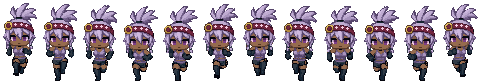
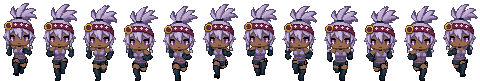
Corsa di fronte col viso della ferma: occhi più piccoli e il naso
Bru: la corsa verso il front aveva gli occhi troppo grandi e niente naso.
In tutti i 12 fotogrammi gli occhi sono ora quelli della ferma (iride di 4
pixel invece di 5, stesse ciglia e angolo in basso, coi colori della corsa),
sempre attaccati ai capelli ai lati, e c'è il naso della ferma: un pixel di
luce all'altezza del fondo degli occhi e uno d'ombra sotto.

Claude-Session: https://claude.ai/code/session_01AE7uzpDH1Lo1PHb29aXJxZ

diff --git a/strumenti/protagonisti/viso_corsa.py b/strumenti/protagonisti/viso_corsa.py
@@ -1,0 +1,96 @@
+"""La corsa di fronte col viso della ferma (Bru: "la corsa verso il front non ha la faccia proporzionata bene alla idle
+pose, le manca il naso e ha gli occhi troppo grandi"). Nella corsa l'iride era larga 5 pixel, con una colonna di
+bianco verso l'esterno; ora in tutti e 12 i fotogrammi gli occhi sono quelli della ferma: iride di 4 pixel (luce e
+riflesso verso l'esterno, pupilla e magenta verso il naso), le stesse ciglia e lo stesso angolo in basso. E c'e' il
+naso della ferma: un pixel di luce all'altezza del fondo degli occhi e uno d'ombra sotto.
+Gli occhi restano attaccati ai capelli ai lati, come nella ferma: il viso della corsa e' largo un pixel in piu', e
+quel pixel va fra gli occhi. Il viso sta un po' piu' su o piu' giu' (e di un pixel a destra) secondo il fotogramma:
+POSTO dice dove, rispetto al fotogramma 0. Colori della corsa (pelle e occhi), la luce del naso come nella ferma.
+Rifarlo non cambia niente (toglie gli occhi e rimette gli stessi).
+uso: viso_corsa.py davanti_corsa.png [anteprima.png]"""
+import sys
+
+import numpy as np
+from PIL import Image
+
+NERO = (6, 7, 15)
+# i colori della ferma (le lettere) tradotti in quelli della corsa
+COL = {'l': NERO,
+       'A': (187, 144, 170),     # luce dell'iride
+       'B': (78, 34, 90),        # pupilla
+       '1': (125, 62, 135),      # magenta
+       '0': (245, 205, 226),     # riflesso
+       'e': (150, 107, 78),      # pelle
+       'c': (128, 93, 75),       # pelle in ombra
+       'd': (105, 75, 64),       # pelle scura
+       '2': (166, 125, 106)}     # la luce del naso (nella ferma 173,135,111 sulla pelle 156,116,82)
+# gli occhi della ferma (davanti_ferma.png, righe 30-35): il sinistro da x 9, il destro da x 21
+SINISTRO = ['llll.',
+            'lllll',
+            'lAABB',
+            'lAABB',
+            'd0011',
+            '.c011']
+DESTRO = ['.lllll',
+          'llllll',
+          '.BBAAl',
+          '.BBAAl',
+          '.1100d',
+          '.110c.']
+NASO = ['2',
+        'c']
+# nel fotogramma 0 della corsa: le ciglia cominciano alla riga 35, il contorno dell'occhio sinistro e' a x 10, quello
+# del destro a x 28 (nella ferma 9 e 26); il naso a x 16, riga 40 (nella ferma x 15, riga 35)
+SX, DX, NX, RIGA = 10, 23, 16, 35
+# dove sta il viso negli altri fotogrammi (dx, dy), trovato confrontando occhi e bocca col fotogramma 0
+POSTO = [(0, 0), (0, 1), (0, 2), (0, 4), (0, 4), (0, 2), (0, 1), (0, 2), (1, 3), (1, 4), (1, 4), (0, 1)]
+# cosa si toglie dei vecchi occhi (diventa pelle): nelle ciglia il nero, nell'iride anche i colori degli occhi e i
+# chiari usati come bianco; i capelli scuri e le ombre della pelle ai lati restano
+OCCHI = {NERO, (78, 34, 90), (125, 62, 135), (187, 144, 170), (245, 205, 226),
+         (191, 172, 209), (206, 185, 223), (168, 148, 189)}
+VECCHI = [(RIGA, RIGA + 6, 10, 16), (RIGA, RIGA + 6, 22, 29)]     # righe e colonne dei vecchi occhi
+
+
+def disegna(f, righe, x0, y0):
+    for j, r in enumerate(righe):
+        for i, ch in enumerate(r):
+            if ch != '.':
+                f[y0 + j, x0 + i, :3] = COL[ch]
+                f[y0 + j, x0 + i, 3] = 255
+
+
+a = np.asarray(Image.open(sys.argv[1]).convert('RGBA')).copy()
+prima = a.copy()
+n = a.shape[1] // 40
+assert n == len(POSTO)
+for k in range(n):
+    f = a[:, k * 40:(k + 1) * 40]
+    dx, dy = POSTO[k]
+    for y0, y1, x0, x1 in VECCHI:
+        for y in range(y0 + dy, y1 + dy):
+            for x in range(x0 + dx, x1 + dx):
+                c = tuple(int(v) for v in f[y, x, :3])
+                if f[y, x, 3] and (c == NERO or (y - dy >= RIGA + 2 and c in OCCHI)):
+                    f[y, x, :3] = COL['e']
+    disegna(f, SINISTRO, SX + dx, RIGA + dy)
+    disegna(f, DESTRO, DX + dx, RIGA + dy)
+    disegna(f, NASO, NX + dx, RIGA + 5 + dy)
+Image.fromarray(a, 'RGBA').save(sys.argv[1])
+print('cambiati', int(np.any(a != prima, axis=-1).sum()), 'pixel in', n, 'fotogrammi')
+
+if len(sys.argv) > 2:
+    # anteprima: le teste prima (sopra) e dopo (sotto), x6, con la ferma di fronte in testa a ogni riga
+    import os
+    ferma = np.asarray(Image.open(os.path.join(os.path.dirname(sys.argv[1]), 'davanti_ferma.png')).convert('RGBA'))
+    z, h = 6, 30
+
+    def testa(img, y0):
+        t = Image.new('RGBA', (40, h), (60, 96, 62, 255))
+        t.alpha_composite(Image.fromarray(np.ascontiguousarray(img[y0:y0 + h]), 'RGBA'))
+        return t.convert('RGB').resize((40 * z, h * z), Image.NEAREST)
+    tela = Image.new('RGB', ((n + 1) * (40 * z + 6), 2 * (h * z + 6)), (40, 40, 48))
+    for r, sheet in enumerate((prima, a)):
+        tela.paste(testa(ferma, 16), (0, r * (h * z + 6)))
+        for k in range(n):
+            tela.paste(testa(sheet[:, k * 40:(k + 1) * 40], 21 + POSTO[k][1]), ((k + 1) * (40 * z + 6), r * (h * z + 6)))
+    tela.save(sys.argv[2])
